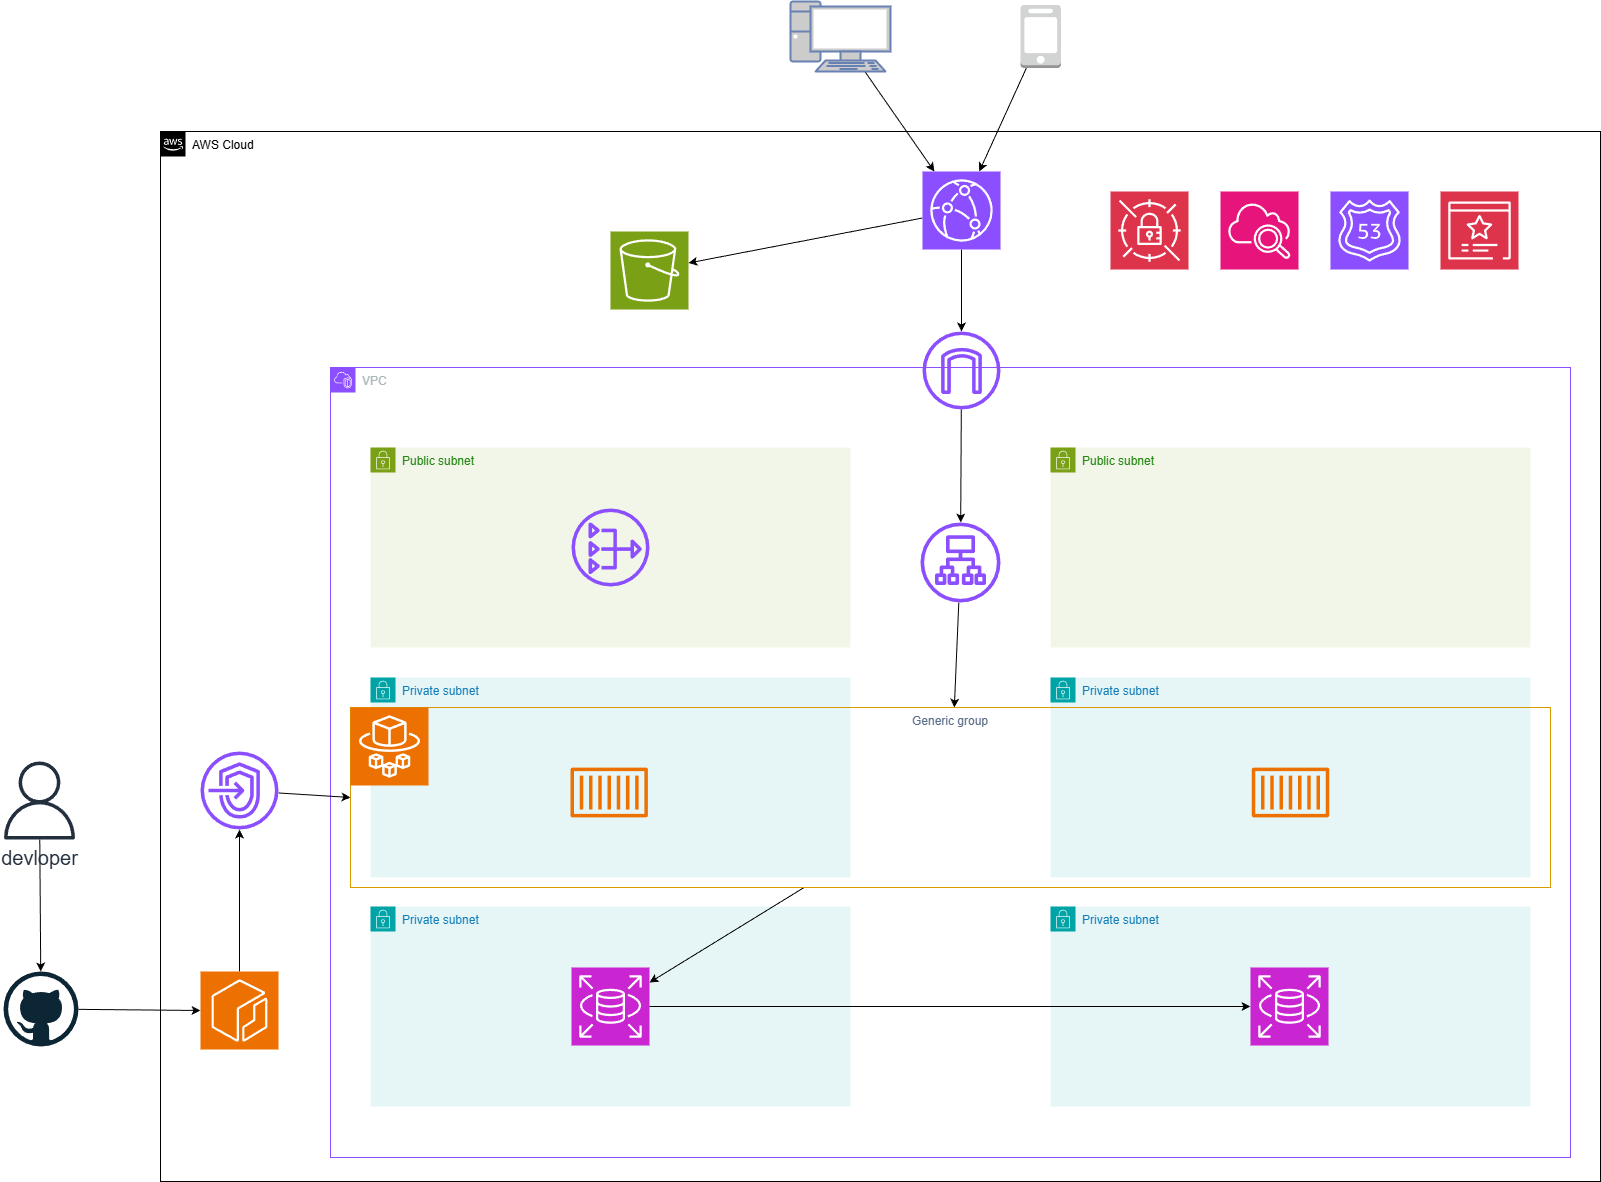
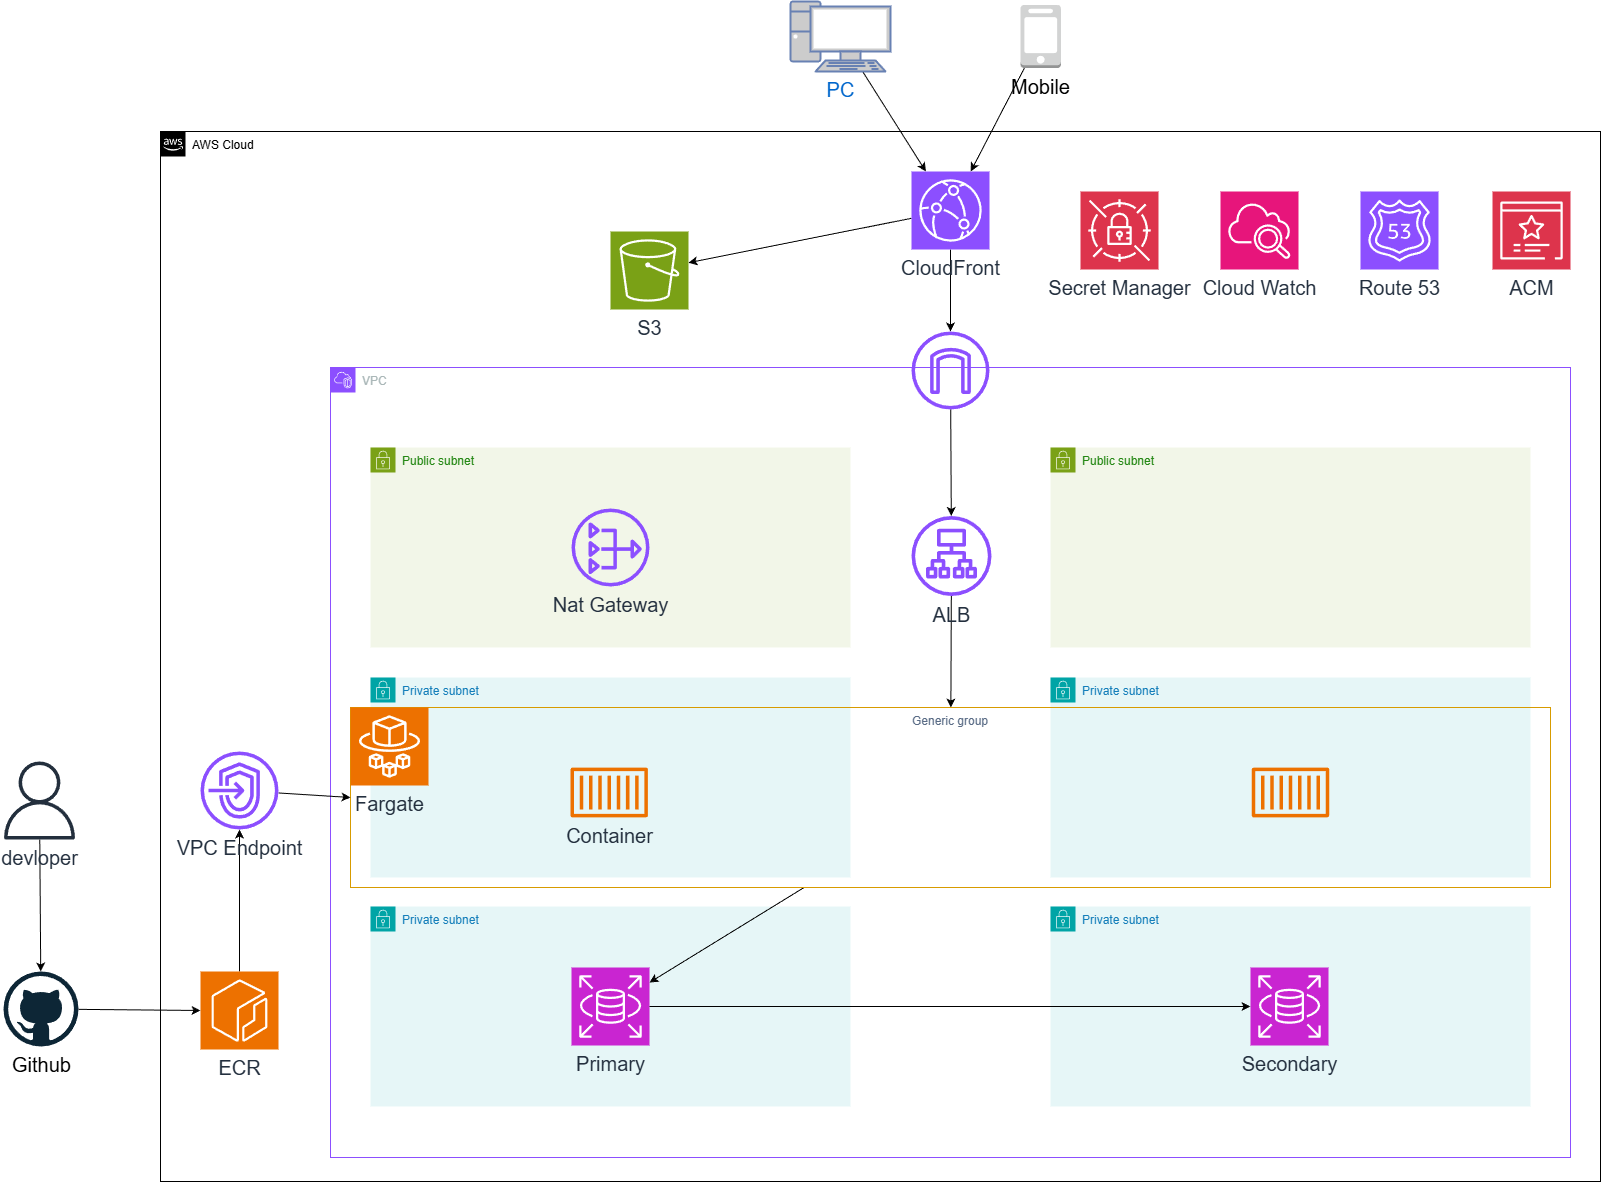
update

diff --git a/README.md b/README.md
@@ -1,8 +1,10 @@
-# ECS 冗長化構成 - Terraform
+# ECS - Terraform
 
 AWS 上で ECSを冗長化する構成を Terraform でコード化したものです。
 
 実際の現場ではmodule化して環境ごとに使い分けているようですが、個人開発レベルなので単一のディレクトリにしています。
+
+# 構成図
 
 ![システム構成図](./構成図.png)
 
@@ -26,7 +28,7 @@ CloudFront (HTTPS / CDN)
                 │  ECS Task 1a  │  ECS Task 1c  (Fargate Spot)│
                 ├─────────────────────────────────────────────┤
                 │  Private Subnet (10.0.5.0/24 / 10.0.6.0)   │
-                │  RDS PostgreSQL (db.t3.micro)               │
+                │  RDS Mysql (db.t3.micro)               │
                 └─────────────────────────────────────────────┘
 
 GitHub Actions → ECR → ECS Deploy
@@ -52,19 +54,29 @@ ecs-terraform/
 ├── route53.tf          # Route53 DNS Records
 ├── cloudfront.tf       # CloudFront Distribution
 ├── s3.tf               # S3 Bucket (Static Assets)
+├── ecr.tf              # ECR リポジトリ・ライフサイクルポリシー
+├── backend.tf          # Terraform リモートステート (S3)
+└── vpc_endpoints.tf    # VPC エンドポイント (ECR / S3 / CloudWatch Logs)
 └── README.md
 ```
 
 ## コスト計算
 
--
+- Route 53:0.50ドル
+- ALB: 28.30ドル ※PublicIPx1無料
+- Fargate:11.09ドル ※Spotで7割引可
+- NAT: 48.24ドル ※右側の構成のみ
+- RDS: 18.72ドル
+- Secrets Manager ~0.40ドル 1シークレット/月
 
 ## 特徴
 
 - マルチAZ冗長構成（ap-northeast-1a / 1c）
+- サブネットを3層（Public / Protected / Private）に分離
 - ALBでトラフィック分散
 - Fargate Spotでコスト削減
 - Auto Scaling（CPU使用率70%でスケールアウト）
-- CloudFront + ACMでHTTPS対応
+- CloudFront + S3でパスごとにALBとS3に振り分ける
 - RDSパスワードをSecrets Managerで自動管理
-- サブネットを3層（Public / Protected / Private）に分離
+- VPCエンドポイント — ECSからECR・S3・CloudWatch LogsへNAT非経由でアクセス（コスト削減・セキュリティ向上）
+- Terraformリモートステート — S3バックエンドでtfstateを管理（チーム開発・CI/CD対応）
